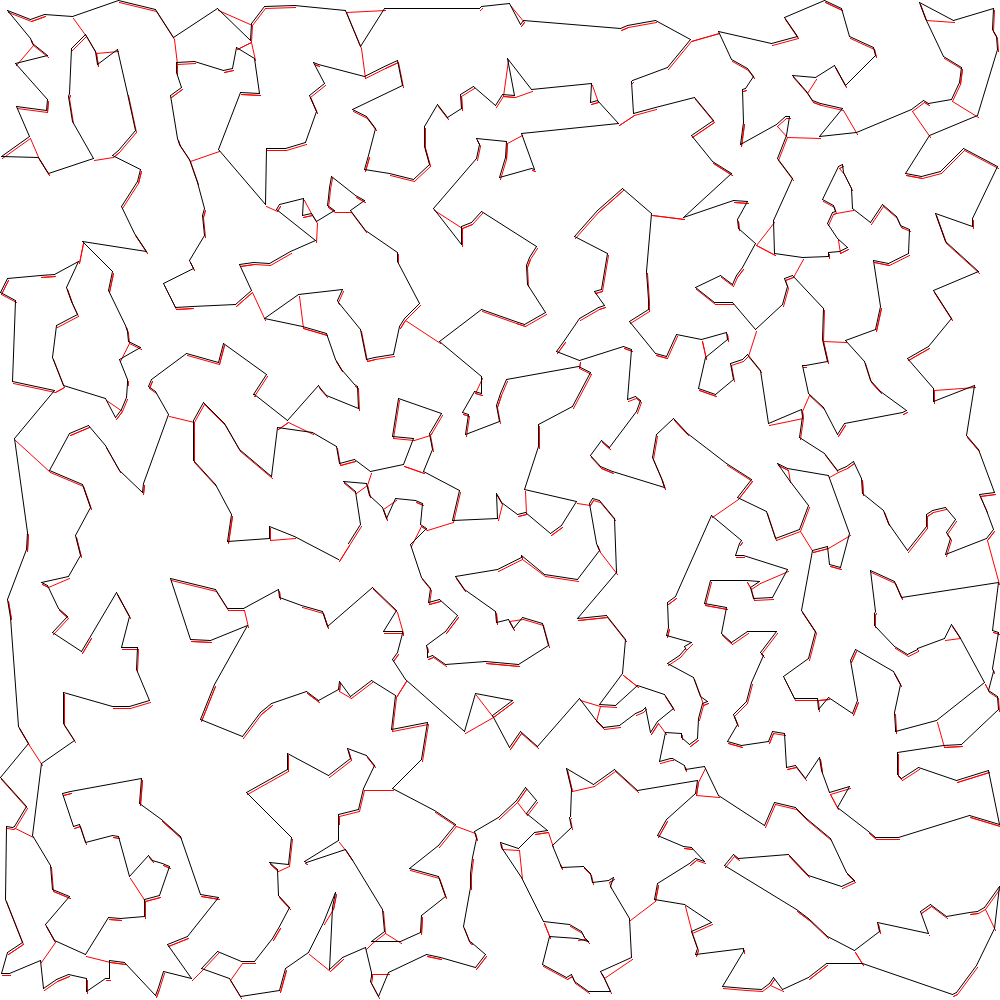
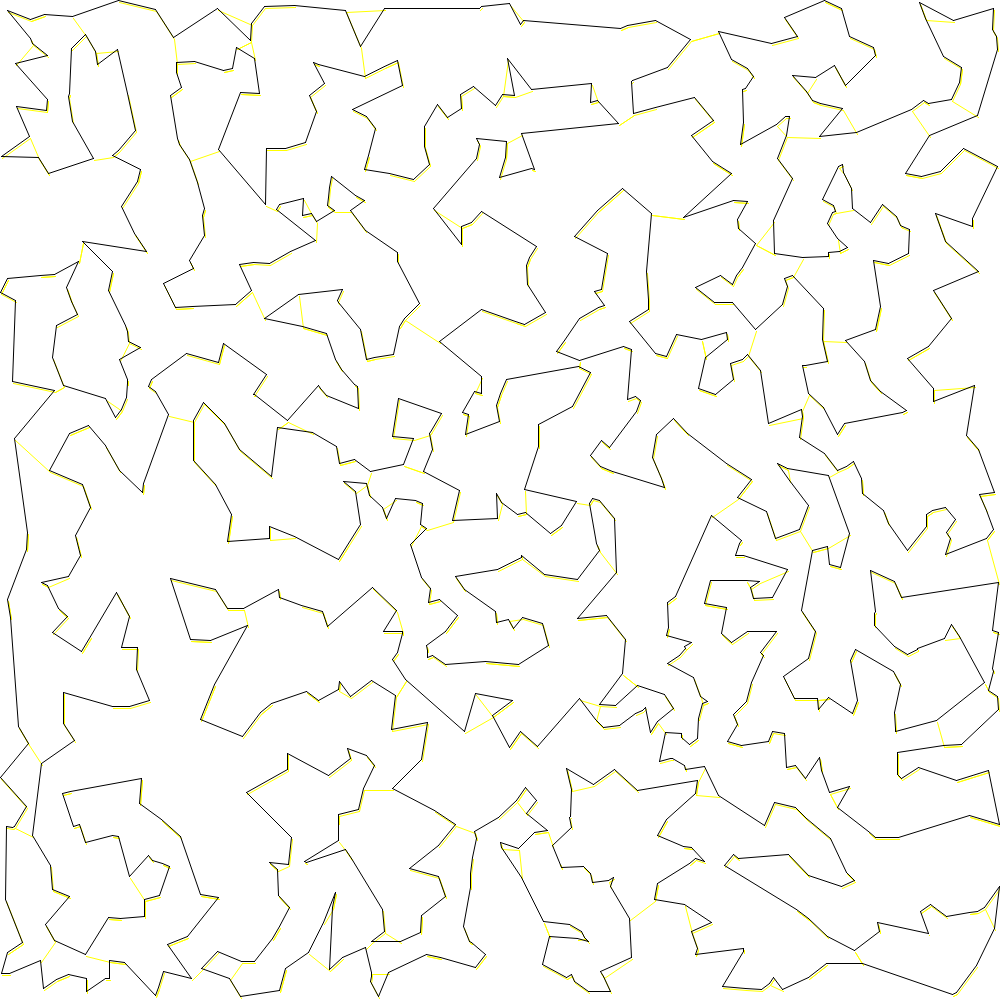
greedy use near

diff --git a/src/main.rs b/src/main.rs
@@ -53,7 +53,7 @@ fn main() {
         let mut image: RgbImage = RgbImage::new(1000, 1000);
         let black = Rgb([0u8, 0u8, 0u8]);
         let white = Rgb([255u8, 255u8, 255u8]);
-        let red = Rgb([255u8, 0u8, 0u8]);
+        let yellow = Rgb([255u8, 255u8, 0u8]);
 
         draw_filled_rect_mut(&mut image, Rect::at(0, 0).of_size(1000, 1000), white);
 
@@ -61,14 +61,14 @@ fn main() {
         for i in 0..size {
             let a = m(points[i as usize]);
             let b = m(points[near(i)[0] as usize]);
-            draw_antialiased_line_segment_mut(&mut image, a, b, red, interpolate);
+            draw_antialiased_line_segment_mut(&mut image, a, b, yellow, interpolate);
         }
 
         let coord = |i| {
             points[visits[i as usize] as usize]
         };
         let mut prev = coord(0);
-        for i in 1..size {
+        for i in 1..=size {
             let curr = coord(i);
             draw_antialiased_line_segment_mut(&mut image, prev, curr, black, interpolate);
             prev = curr;
@@ -77,13 +77,13 @@ fn main() {
         image.save("plot.png").unwrap();
     };
 
-    let mut solution = { // greedy
+    let mut best = { // greedy
         let mut r: Vec<P> = Vec::with_capacity(size as usize);
         let mut prev = 0;
         r.push(prev);
         let mut rest: BTreeSet<P> = (1..size).collect();
         while !rest.is_empty() {
-            prev = *rest.iter().min_by_key(|next| cost(prev, **next)).unwrap();
+            prev = *near(prev).iter().find(|next| rest.contains(next)).unwrap();
             r.push(prev);
             rest.remove(&prev);
         }
@@ -91,29 +91,29 @@ fn main() {
         r
     };
 
-    let mut solution_cost =
-        (1..solution.len()).map(|i| cost(solution[i - 1], solution[i])).sum::<u32>();
+    let mut best_cost =
+        (1..best.len()).map(|i| cost(best[i - 1], best[i])).sum::<u32>();
 
     for _ in 0..2000000 {
         let a = rng.gen_range(1, size - 1);
         let b = rng.gen_range(a + 1, size);
 
         let estimate = |a: P, b: P| {
-            let az = solution[a as usize];
-            let am = solution[a as usize - 1];
-            let bz = solution[b as usize];
-            let bp = solution[b as usize + 1];
+            let az = best[a as usize];
+            let am = best[a as usize - 1];
+            let bz = best[b as usize];
+            let bp = best[b as usize + 1];
             (cost(am, az) + cost(bz, bp),
              cost(am, bz) + cost(az, bp))
         };
         let e = estimate(a, b);
 
         if e.1 <= e.0 {
-            solution[a as usize..=b as usize].reverse();
-            solution_cost = solution_cost - e.0 + e.1;
+            best[a as usize..=b as usize].reverse();
+            best_cost = best_cost - e.0 + e.1;
         }
     }
-    println!("{:?} {:?}", start.elapsed(), solution_cost);
-    draw(&solution);
+    println!("{:?} {:?}", start.elapsed(), best_cost);
+    draw(&best);
 }
 
